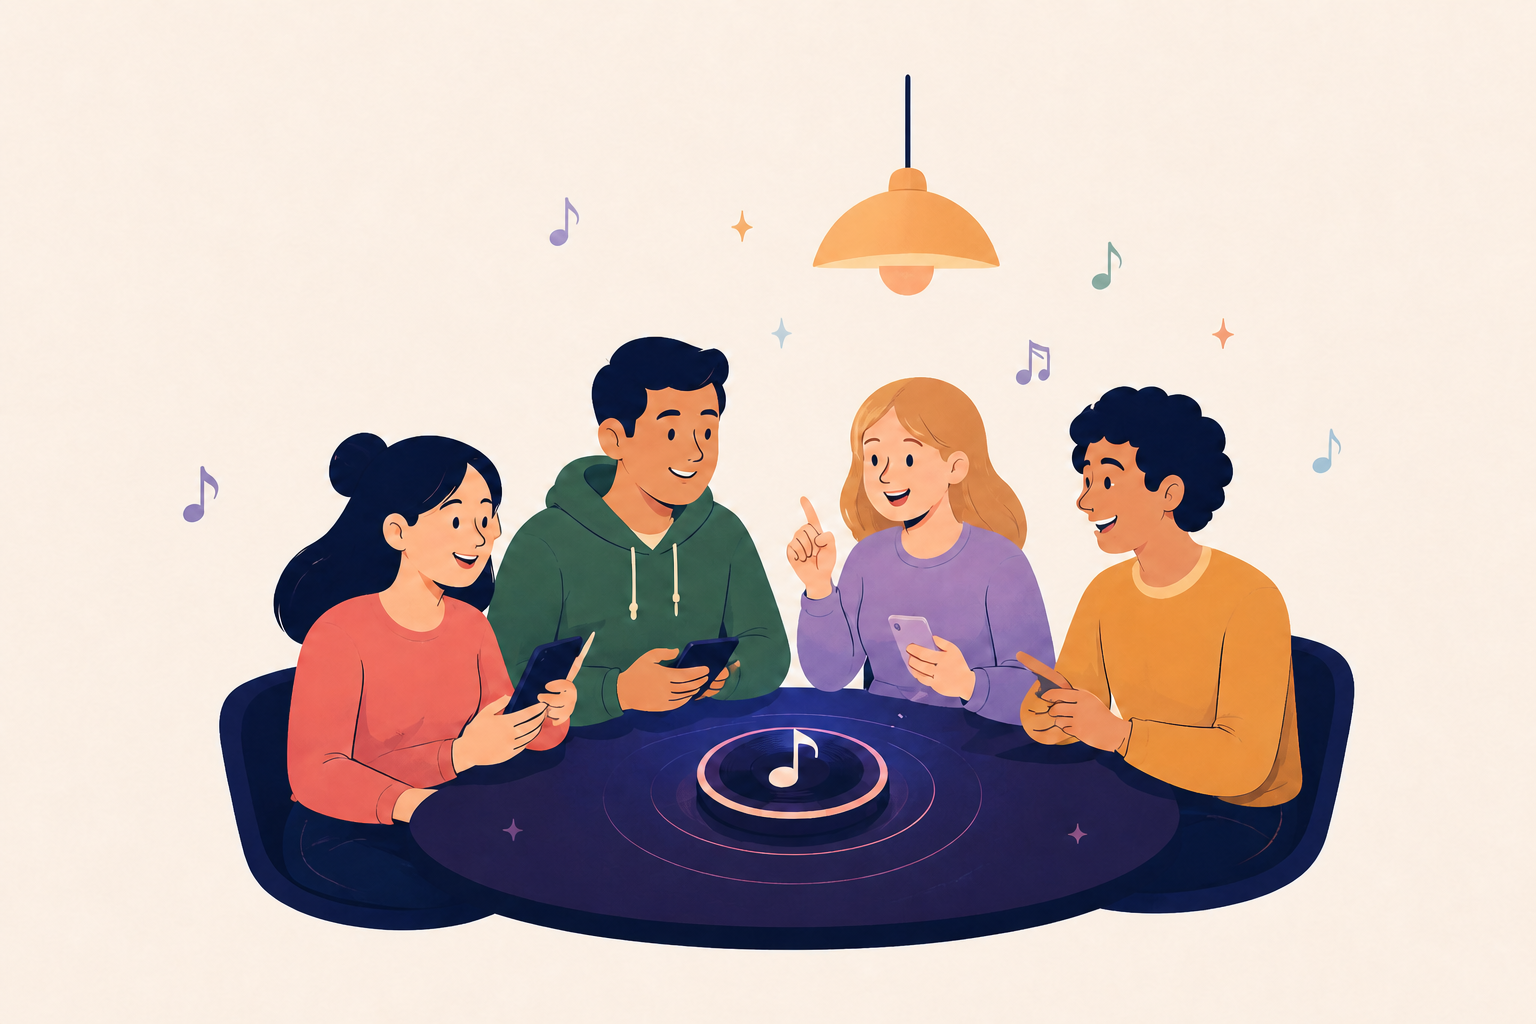
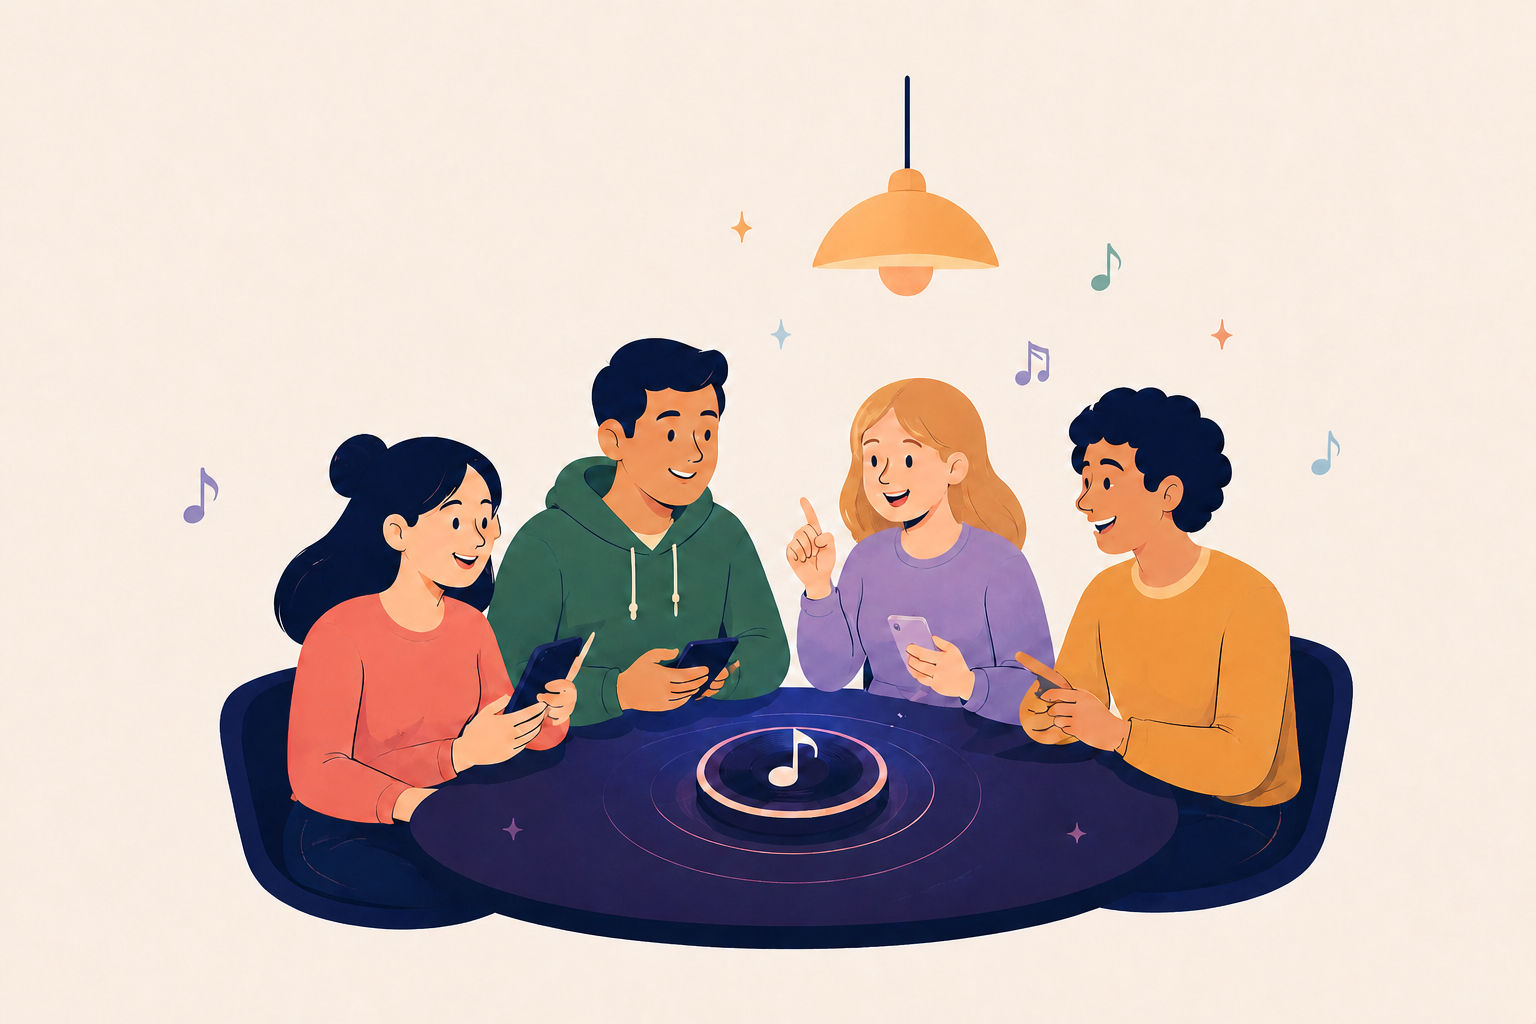
Add files via upload

diff --git a/index.html b/index.html
@@ -30,11 +30,11 @@
       .avatar-choice-layout{display:grid;grid-template-columns:minmax(210px,300px) 1fr;gap:18px;align-items:start}.avatar-art{background-image:var(--avatar-art);background-size:200% 300%;background-position:var(--avatar-x) var(--avatar-y);background-repeat:no-repeat;background-color:#08152d}.avatar-choice-preview{width:100%;aspect-ratio:1;border:2px solid #4fc9ee;border-radius:18px;box-shadow:0 12px 28px #0008}.avatar-choice-copy{display:grid;gap:11px}.avatar-choice-copy p{margin:0;color:#b8c6db;font-size:12px}.avatar-genre-grid{display:grid;grid-template-columns:repeat(2,minmax(0,1fr));gap:8px}.avatar-genre-grid button{margin:0;padding:10px 7px;border:1px solid #5e7393;border-radius:10px;background:#202b3d;color:#fff;font:900 10px inherit;cursor:pointer}.avatar-genre-grid button.is-selected{border-color:#4fc9ee;background:#123648;color:#72d9f5}.avatar-variant-grid{display:grid;grid-template-columns:repeat(3,minmax(0,1fr));gap:8px}.avatar-variant-grid button{aspect-ratio:1;padding:0;border:2px solid #42526c;border-radius:10px;cursor:pointer}.avatar-variant-grid button.is-selected{border-color:#4fc9ee;box-shadow:0 0 0 2px #4fc9ee55}.account-avatar.avatar-art{background-size:200% 300%;background-position:var(--avatar-x) var(--avatar-y)}.friend-stats{display:none!important}.friend-profile{display:grid!important;grid-template-columns:82px minmax(0,1fr);column-gap:12px;align-items:center}.friend-profile>.friend-avatar{grid-column:1;grid-row:1;width:72px;height:72px;border-radius:12px;justify-self:center}.friend-profile>strong{grid-column:1;grid-row:2;text-align:center;font-size:10px;line-height:1.2;overflow-wrap:anywhere}.friend-profile>.friend-main-actions{grid-column:2;grid-row:1 / span 2;display:grid;grid-template-columns:1fr;gap:9px;width:100%}.friend-profile>.friend-main-actions .button{min-height:42px;margin:0;font-size:9px}.friend-profile>.friend-career-card{grid-column:1/-1;margin-top:11px}.friend-career-button{background:#f2a329!important;color:#1c1304!important;border-color:#ffc55b!important}.friend-remove-wide{grid-column:1/-1!important;width:100%;margin-top:8px}.friend-career-card{display:block;padding:10px;border:1px solid #52627a;border-radius:9px;background:#101a28}.friend-career-card .level-head{margin-bottom:8px}.friend-career-card .achievement-list{margin:10px 0 0}.friend-career-card .achievement-list p{margin:0;color:#b8c6db;font-size:10px}.friend-career-card small{color:#aebbd0;font-weight:900}.friend-career-card b{color:#f4c64e}.friend-career-card strong{color:#4fc9ee;font-size:11px}@media(max-width:640px){.avatar-choice-layout{grid-template-columns:1fr}.avatar-choice-preview{max-width:320px;justify-self:center}.avatar-genre-grid{grid-template-columns:repeat(2,minmax(0,1fr))}.friend-profile{grid-template-columns:72px minmax(0,1fr);column-gap:9px}.friend-profile>.friend-avatar{width:64px;height:64px}.friend-profile>.friend-main-actions .button{min-height:39px;font-size:8px}}
       .friend-profile{align-items:start}.friend-profile>.friend-identity{grid-column:1;display:flex;flex-direction:column;align-items:center;gap:3px}.friend-profile>.friend-identity>.friend-avatar{width:72px;height:72px;border-radius:12px}.friend-profile>.friend-identity>strong{margin:0;text-align:center;font-size:10px;line-height:1.2;overflow-wrap:anywhere}.friend-profile>.friend-main-actions{grid-column:2;width:min(100%,250px);justify-self:start}.avatar-rig-layout{display:grid;grid-template-columns:minmax(210px,300px) 1fr;gap:18px;align-items:start}.avatar-rig-preview{border:2px solid #4fc9ee;border-radius:18px;overflow:hidden;box-shadow:0 12px 28px #0008}.avatar-rig-svg{display:block;width:100%;height:auto}.avatar-rig-controls{display:grid;grid-template-columns:repeat(2,minmax(0,1fr));gap:9px}.avatar-rig-controls label{display:grid;gap:4px;color:#b8c6db;font-size:9px;font-weight:900}.avatar-rig-controls select{min-width:0;padding:8px;border:1px solid #536580;border-radius:8px;background:#1c293a;color:#fff;font:900 10px inherit}.avatar-rig-controls .button{grid-column:span 2;margin:0}.avatar-rig-genres{display:flex;flex-wrap:wrap;gap:7px;margin-top:14px;align-items:center}.avatar-rig-genres b{font-size:10px;color:#b8c6db}.avatar-rig-genres button{border:1px solid #536580;border-radius:8px;background:#1c293a;color:#fff;padding:7px 9px;font:900 9px inherit;cursor:pointer}.avatar-rig-mini{overflow:hidden;background:#0d2541}.avatar-rig-mini .avatar-rig-svg{width:100%;height:100%}.avatar-rig-art{position:relative;width:100%;aspect-ratio:1;overflow:hidden;border-radius:16px;background:radial-gradient(circle at 50% 20%,#24466a,#07152a 72%)}.avatar-atlas-layer{position:absolute;inset:0;display:block;background-repeat:no-repeat}.avatar-atlas-face{background-image:url('assets/avatar-rig-faces.png');background-size:200% 300%;background-position:var(--face-x) var(--face-y)}.avatar-atlas-part{background-image:url('assets/avatar-rig-atlas.png');background-size:300% 300%;background-position:var(--atlas-x) var(--atlas-y)}.avatar-rig-art-mini{border-radius:10px}@media(max-width:640px){.friend-profile>.friend-identity>.friend-avatar{width:64px;height:64px}.friend-profile>.friend-main-actions{width:100%}.avatar-rig-layout{grid-template-columns:1fr}.avatar-rig-preview{max-width:320px;justify-self:center}.avatar-rig-controls{grid-template-columns:1fr}.avatar-rig-controls .button{grid-column:1}.avatar-rig-genres{justify-content:center}}
     </style>
-    <link rel="stylesheet" href="styles.css?v=6.19" />
+    <link rel="stylesheet" href="styles.css?v=6.20" />
   </head>
   <body>
     <main class="app-shell">
-<header class="brand"><button class="brand-button" id="brand-home">Digihits <small>v6.19</small></button><div class="brand-actions"><button class="install-home" id="install-app" type="button">LÄGG TILL PÅ HEMSKÄRMEN</button><button class="install-home" id="enable-notifications" type="button">AKTIVERA NOTISER</button><button class="profile-toggle" data-view="profile" type="button" aria-label="Min profil" title="Min profil" hidden><svg viewBox="0 0 24 24" aria-hidden="true"><circle cx="12" cy="8" r="4"/><path d="M4 22v-3a8 8 0 0 1 16 0v3Z"/></svg></button></div></header>
+<header class="brand"><button class="brand-button" id="brand-home">Digihits <small>v6.20</small></button><div class="brand-actions"><button class="install-home" id="install-app" type="button">LÄGG TILL PÅ HEMSKÄRMEN</button><button class="install-home" id="enable-notifications" type="button">AKTIVERA NOTISER</button><button class="profile-toggle" data-view="profile" type="button" aria-label="Min profil" title="Min profil" hidden><svg viewBox="0 0 24 24" aria-hidden="true"><circle cx="12" cy="8" r="4"/><path d="M4 22v-3a8 8 0 0 1 16 0v3Z"/></svg></button></div></header>
 
       <section class="view active" data-view-panel="welcome">
         <div class="panel welcome-card">
@@ -113,7 +113,7 @@
 
       <section class="view" data-view-panel="profile"><section class="hero panel profile-card"><button class="back-link" data-view="home" type="button">← Tillbaka</button><div class="account-row"><div class="account-row-top"><div><span class="status-dot"></span><strong> INLOGGAD</strong><span class="account-field-label">E-POSTADRESS</span><p id="player-email">spelare@digihits.se</p><div class="player-name"><span>SPELARNAMN</span><strong id="player-name">Spelare</strong></div></div><div class="account-avatar-wrap"><button class="mini-avatar account-avatar mini-pop" id="change-avatar" type="button" aria-label="Ändra avatar"></button><button class="avatar-change-link" id="change-avatar-link" type="button">ÄNDRA AVATAR</button></div></div><div class="account-actions"><button class="account-button" id="change-password">BYT LÖSENORD</button><button class="account-button" id="logout">LOGGA UT</button><button class="account-button account-danger" id="delete-account">RADERA KONTO</button></div></div></section></section>
       <section class="view" data-view-panel="home">
-        <section class="hero panel"><div class="home-intro"><div class="home-greeting"><h2>Hej! 👋</h2><p>Dags för musik, minnen<br />och massor av skratt.</p></div><div class="home-illustration"><img src="assets/home-friends.png?v=6.19" width="1536" height="1024" alt="Fyra vänner spelar musikspel tillsammans runt ett skivbord." decoding="async" /></div></div></section>
+        <section class="hero panel"><div class="home-intro"><div class="home-greeting"><h2>Hej! 👋</h2><p><span class="greeting-line">Dags för musik, minnen<i aria-hidden="true">♪</i></span><br /><span class="greeting-line">och massor av skratt.<i aria-hidden="true">✦</i></span></p><div class="greeting-decoration" aria-hidden="true">♫ <span>✦</span> ♪</div></div><div class="home-illustration"><img src="assets/home-friends.png?v=6.20" width="1536" height="1024" alt="Fyra vänner spelar musikspel tillsammans runt ett skivbord." decoding="async" /></div></div></section>
         <section class="panel accordion" data-accordion>
           <button class="accordion-toggle" type="button" aria-expanded="false"><span class="accordion-label">Skapa eller gå med i match</span><span class="accordion-mark">›</span></button>
           <div class="accordion-content"><div class="match-actions"><article class="action-card"><h3>Skapa ny match</h3><p>Spela solo på egen hand eller online mot andra.</p><button class="button button-purple" id="create-solo-match">SKAPA NY SOLOMATCH</button><button class="button button-green" id="create-match">SKAPA NY ONLINEMATCH</button></article><article class="action-card"><h3>Gå med i match</h3><p>Skriv koden du fått av din vän.</p><label class="sr-only" for="match-code">Matchkod</label><input id="match-code" maxlength="6" placeholder="Skriv kod" autocomplete="off" /><button class="button button-green" id="join-match">GÅ MED I MATCHEN</button></article></div></div>
@@ -147,6 +147,6 @@
     <script src="auth.js?v=4.03"></script>
     <script src="tracks.js"></script>
     <script src="push-config.js?v=3.17"></script>
-<script src="app.js?v=6.19"></script>
+<script src="app.js?v=6.20"></script>
   </body>
 </html>

diff --git a/app.js b/app.js
@@ -1287,7 +1287,7 @@ $("#signup-form").addEventListener("submit", async (event) => {
   finally { $("#signup-progress").hidden = true; }
 });
 
-if ("serviceWorker" in navigator) navigator.serviceWorker.register("sw.js?v=6.19", { updateViaCache: "none" }).then((registration) => registration.update()).catch(() => {});
+if ("serviceWorker" in navigator) navigator.serviceWorker.register("sw.js?v=6.20", { updateViaCache: "none" }).then((registration) => registration.update()).catch(() => {});
 // Första renderingen sker efter att avatarens delar har initierats.
 if ((window.matchMedia?.("(display-mode: standalone)").matches || navigator.standalone) && supabaseAuth.session()?.access_token && window.Notification?.permission === "default") setTimeout(() => dialog("Vill du slå på notiser för Digihits? Du får en notis när det är din tur eller när du får en matchinbjudan.", () => $("#enable-notifications").click(), false, "AKTIVERA NOTISER"), 700);
 $("#timeline-row").after($("#change-track-area"));
@@ -1333,7 +1333,7 @@ function renderAvatarRig() { const panel = $("#avatar-panel"); if (!panel) retur
 document.addEventListener("change", (event) => { const select = event.target.closest("[data-avatar-rig]"); if (!select) return; state.avatar ||= {}; state.avatar.traits = { ...avatarRig(state.avatar), [select.dataset.avatarRig]: select.value }; save(); renderAvatar(); });
 document.addEventListener("click", (event) => { const genre = event.target.closest("[data-avatar-rig-genre]"), random = event.target.closest("[data-avatar-rig-random]"); if (!genre && !random) return; state.avatar ||= {}; state.avatar.traits = random ? Object.fromEntries(Object.entries(avatarRigOptions).map(([part, values]) => [part, values[Math.floor(Math.random() * values.length)]])) : { ...avatarRig(state.avatar), ...avatarRigPresets[genre.dataset.avatarRigGenre] }; save(); renderAvatar(); });
 function renderAvatarRig() { const panel = $("#avatar-panel"); if (!panel) return; state.avatar ||= {}; const choice = ownAvatarChoice(), accountAvatar = $("#change-avatar"); state.avatar.genre = choice.genre; state.avatar.variant = choice.variant; save(); if (accountAvatar) { accountAvatar.className = "mini-avatar account-avatar avatar-art"; accountAvatar.style.cssText = avatarArtStyle(choice.genre, choice.variant); accountAvatar.replaceChildren(); } panel.innerHTML = `<h3>MIN ARTIST-AVATAR</h3><div class="avatar-choice-layout"><div class="avatar-choice-preview avatar-art" style="${avatarArtStyle(choice.genre, choice.variant)}" role="img" aria-label="${choice.genre}-avatar"></div><div class="avatar-choice-copy"><p>Välj en musikgenre och sedan en av sex färdiga avatarer.</p><div class="avatar-genre-grid">${avatarStyles.map((genre) => `<button type="button" class="${genre === choice.genre ? "is-selected" : ""}" data-avatar-style="${genre}">${genre.toUpperCase()}</button>`).join("")}</div><div class="avatar-variant-grid">${Array.from({ length: 6 }, (_, index) => `<button type="button" class="avatar-art ${index === choice.variant ? "is-selected" : ""}" style="${avatarArtStyle(choice.genre, index)}" data-avatar-variant="${index}" aria-label="Välj avatar ${index + 1}"></button>`).join("")}</div><button type="button" class="button avatar-shuffle" data-avatar-style-random>SLUMPA AVATAR</button><button type="button" class="button button-green" data-avatar-save>SPARA AVATAR</button></div></div>`; }
-$(".brand small").textContent = "v6.19";
+$(".brand small").textContent = "v6.20";
 render();
 const unsuitableAppleVersion = /(cover|karaoke|instrumental|tribute|live|sped up|slowed|nightcore|re-recorded|remix)/i;
 supabaseAuth.spotify = () => ({ name: "Apple-previews" });

diff --git a/styles.css b/styles.css
@@ -553,6 +553,11 @@ input:focus-visible,select:focus-visible,textarea:focus-visible{outline:2px soli
 .home-greeting{position:absolute;z-index:1;top:clamp(12px,3vw,40px);left:clamp(12px,3vw,40px);max-width:56%;}
 .home-greeting h2{font:700 clamp(22px,3vw,40px)/1.2 Georgia,serif;margin:0 0 8px;color:var(--ink);}
 .home-greeting p{font-size:clamp(12px,1.6vw,18px);line-height:1.5;margin:0;color:var(--ink);}
+.greeting-line{position:relative;display:inline-block;}
+.greeting-line>i{position:absolute;left:calc(100% + 8px);top:50%;transform:translateY(-50%);font:normal 20px/1 Georgia,serif;color:#a28bbc;pointer-events:none;}
+.greeting-line:last-child>i{font-size:16px;color:#d28c64;}
+.greeting-decoration{display:flex;gap:15px;align-items:center;margin-top:5px;font:normal 20px/1 Georgia,serif;color:#a28bbc;pointer-events:none;}
+.greeting-decoration span{font-size:12px;color:#d28c64;}
 /* Egen liggande Hem-illustration: hela bilden visas, ingen klippning eller förskjutning. */
 .home-illustration{width:100%;background:transparent;}
 .home-illustration img{display:block;width:100%;height:auto;object-fit:contain;mix-blend-mode:multiply;}
